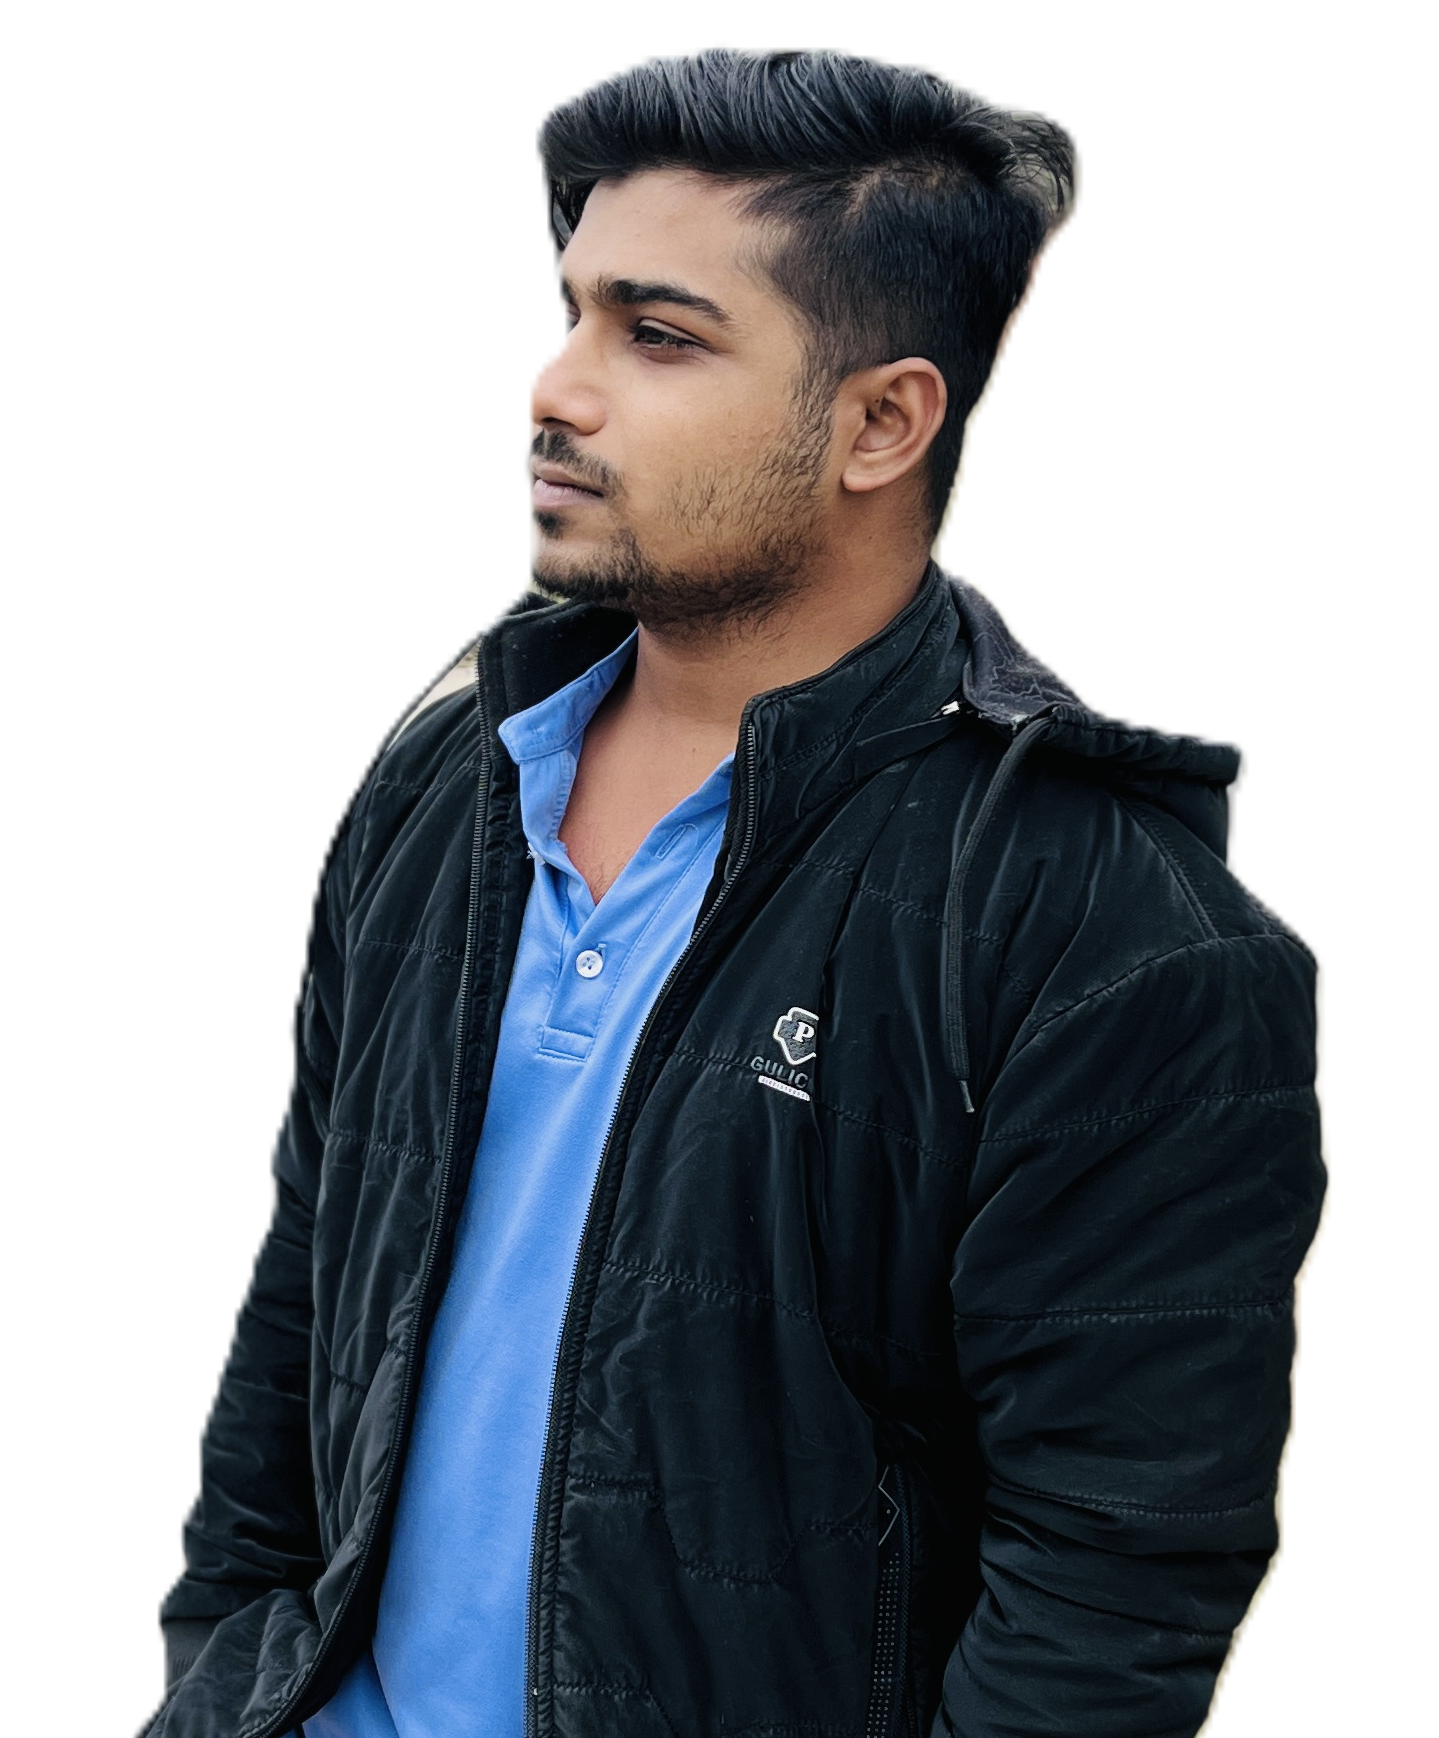
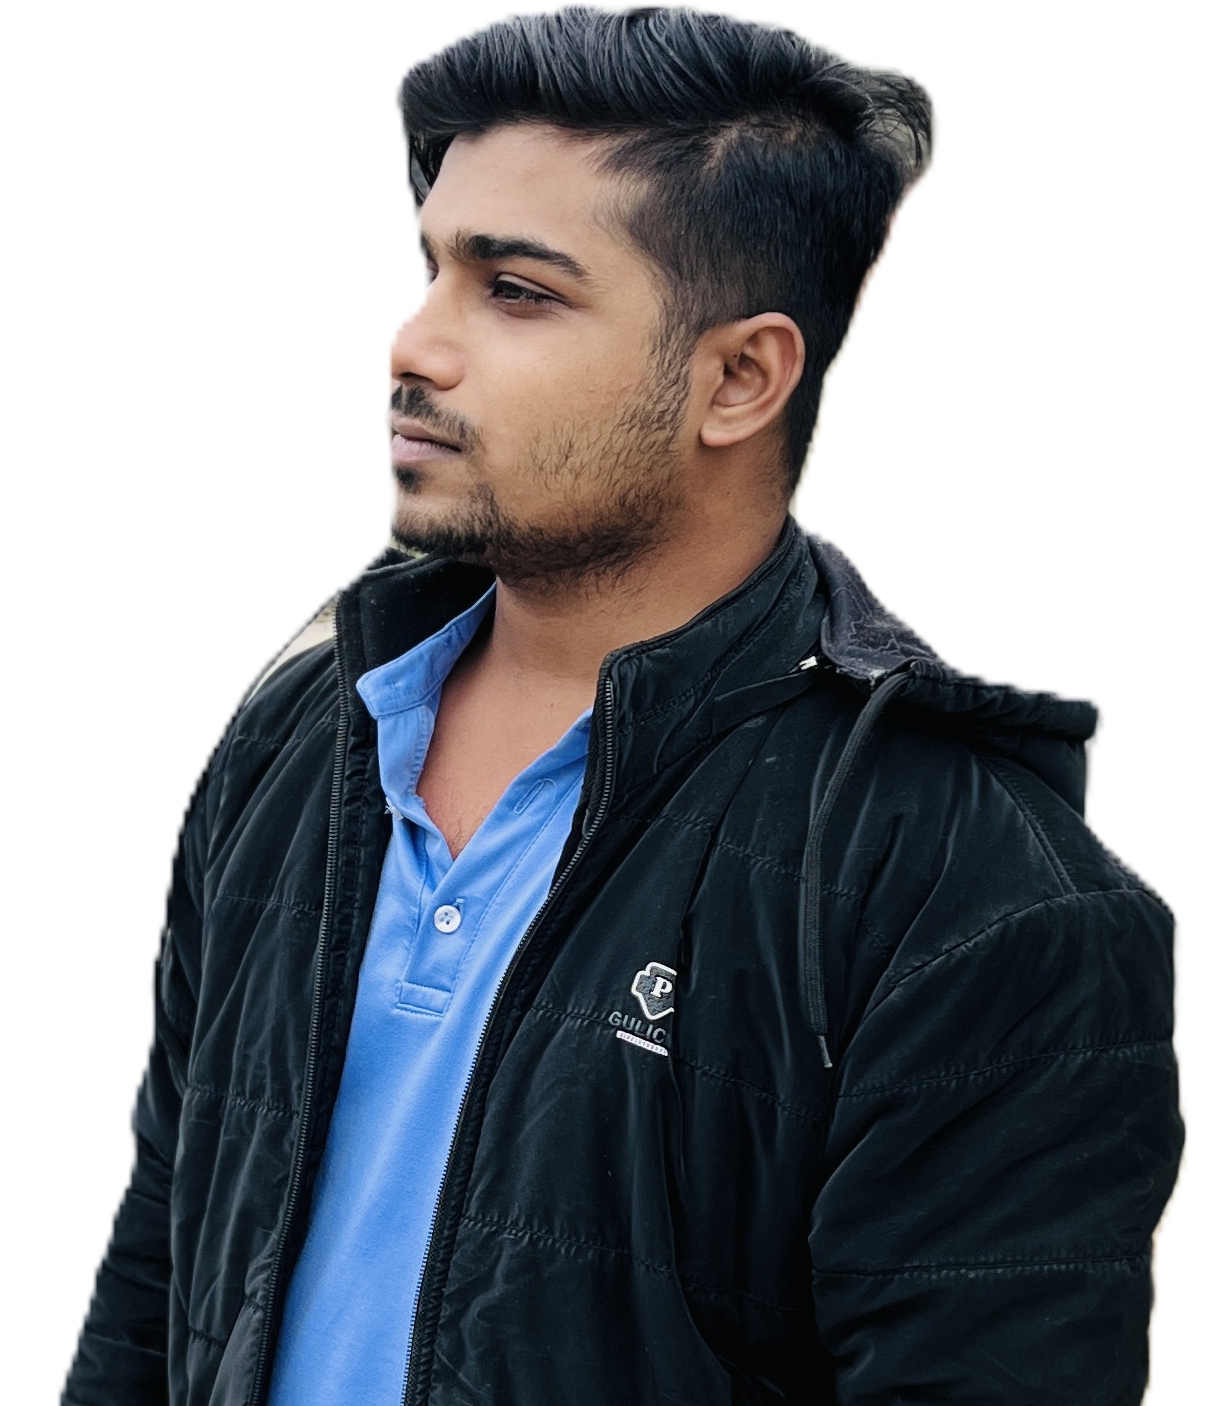
some style changed on header

diff --git a/css/style.css b/css/style.css
@@ -1,44 +1,53 @@
-@import url('https://fonts.googleapis.com/css2?family=Open+Sans:ital,wght@0,300..800;1,300..800&display=swap');
+@import url("https://fonts.googleapis.com/css2?family=Open+Sans:ital,wght@0,300..800;1,300..800&display=swap");
 
 * {
-    margin: 0;
-    padding: 0;
-    box-sizing: border-box;
+  margin: 0;
+  padding: 0;
+  box-sizing: border-box;
 }
 
 body {
-    font-family: "Open Sans", sans-serif;
-    font-optical-sizing: auto;
+  font-family: "Open Sans", sans-serif;
+  font-optical-sizing: auto;
 }
 
 /* Global Class Start */
 .btn {
-    background-color: #FD6E0A;
-    color: #fff;
-    padding: 18px 36px;
-    font-size: 20px;
-    font-weight: bold;
-    border: none;
-    border-radius: 5px;
+  background-color: #fd6e0a;
+  color: #fff;
+  padding: 18px 36px;
+  font-size: 20px;
+  font-weight: bold;
+  border: none;
+  border-radius: 5px;
+  cursor: pointer;
 }
-
+.btn_tr {
+  background-color: transparent;
+  color: #fd6e0a;
+  border: 1px solid #fd6e0a;
+  transition: 0.2s all;
+}
+.btn_tr:hover {
+  background-color: #fd6e0a;
+  color: #fff;
+}
 .header_container {
-    background: url('../images/header_bg.png'), #FFF8F3;
-    background-repeat: no-repeat;
-    background-position: bottom right;
-    max-width: 1600px;
-    margin: 0px auto;
-    padding-top: 38px;
-    display: flex;
-    justify-content: space-between;
-    gap: 71px;
+  background: url("../images/header_bg.png"), #fff8f3;
+  background-repeat: no-repeat;
+  background-position: bottom right;
+  max-width: 1600px;
+  margin: 0px auto;
+  padding-top: 38px;
+  display: flex;
+  justify-content: space-between;
 }
 
 /* Global Class End */
 .developer {
-    width: 136px;
-    display: flex;
-    justify-content: right;
+  width: 150px;
+  display: flex;
+  justify-content: right;
 }
 
 /* .main_header {
@@ -46,75 +55,80 @@ body {
 } */
 
 .main_header .logo h2 {
-    font-size: 45px;
-    font-weight: bolder;
+  font-size: 45px;
+  font-weight: bolder;
 }
 
 .logo h2 span {
-    color: #FD6E0A;
+  display: inline-block;
+  color: #fd6e0a;
 }
 
 .main_header .menu {
-    display: flex;
-    justify-content: space-between;
-    margin-bottom: 46px;
+  max-width: 1150px;
+  display: flex;
+  justify-content: space-between;
+  margin-bottom: 46px;
 }
 
 .menu_items ul {
-    display: flex;
-    list-style: none;
-    gap: 51px;
-    align-items: center;
+  display: flex;
+  list-style: none;
+  gap: 51px;
+  align-items: center;
 }
 
 .menu_items a {
-    text-decoration: none;
-    color: #474747;
-    font-size: 20px;
-    padding: 3px 5px;
-    transition: 0.3s;
+  text-decoration: none;
+  color: #474747;
+  font-size: 20px;
+  padding: 3px 5px;
+  transition: 0.3s;
 }
 
 .menu_items a:hover {
-    background-color: #FD6E0A;
-    color: #fff;
-    border-radius: 5px;
+  background-color: #fd6e0a;
+  color: #fff;
+  border-radius: 5px;
 }
 
 .banner_container {
-    max-width: 1392px;
-    display: flex;
-    justify-content: space-between;
-    align-items: center;
-    gap: 163px;
+  max-width: 1392px;
+  display: flex;
+  justify-content: space-between;
+  align-items: center;
+  gap: 170px;
 }
-
+.banner_container .banner_image {
+  margin-right: 35px;
+}
 .banner_container .banner_image img {
-    width: 584px;
-    margin-right: 55px;
-    vertical-align: middle;
+  width: 584px;
+  height: 676px;
+  vertical-align: middle;
 }
 
 .banner_content .hello {
-    font-size: 45px;
-    font-weight: 600;
-    color: #474747;
+  font-size: 45px;
+  font-weight: 600;
+  color: #474747;
 }
 
 .banner_content .my_name {
-    font-size: 85px;
-    font-weight: bold;
-    color: #181818;
+  font-size: 85px;
+  font-weight: bold;
+  color: #181818;
+  margin-bottom: 20px;
 }
 
 .banner_content .banner_text {
-    font-size: 18px;
-    line-height: 30px;
-    color: #757575;
-    margin-bottom: 30px;
+  font-size: 18px;
+  line-height: 30px;
+  color: #757575;
+  margin-bottom: 30px;
 }
 
 .banner_content .buttons_container {
-    display: flex;
-    gap: 30px;
+  display: flex;
+  gap: 30px;
 }

diff --git a/index.html b/index.html
@@ -1,50 +1,60 @@
 <!DOCTYPE html>
 <html lang="en">
-
-<head>
-    <meta charset="UTF-8">
-    <meta name="viewport" content="width=device-width, initial-scale=1.0">
+  <head>
+    <meta charset="UTF-8" />
+    <meta name="viewport" content="width=device-width, initial-scale=1.0" />
     <title>My Portfolio</title>
-    <link rel="stylesheet" href="css/style.css">
-</head>
+    <link
+      rel="stylesheet"
+      href="https://cdnjs.cloudflare.com/ajax/libs/font-awesome/7.0.1/css/all.min.css"
+      integrity="sha512-2SwdPD6INVrV/lHTZbO2nodKhrnDdJK9/kg2XD1r9uGqPo1cUbujc+IYdlYdEErWNu69gVcYgdxlmVmzTWnetw=="
+      crossorigin="anonymous"
+      referrerpolicy="no-referrer"
+    />
+    <link rel="stylesheet" href="css/style.css" />
+  </head>
 
-<body>
+  <body>
     <header class="header_container">
-        <section class="developer">
-            <img src="images/developer.png" alt="">
-        </section>
-        <section class="main_header">
-            <nav class="menu">
-                <div class="logo">
-                    <h2>Sagor<span>D</span>ev</h2>
-                </div>
-                <div class="menu_items">
-                    <ul>
-                        <li><a href="#">Portfolio</a></li>
-                        <li><a href="#">Blog</a></li>
-                        <button class="btn">Hire Me</button>
-                    </ul>
-                </div>
-            </nav>
-            <div class="banner_container">
-                <div class="banner_content">
-                    <h3 class="hello">Hi, I am</h3>
-                    <h1 class="my_name">Md Sagor Mia</h1>
-                    <p class="banner_text">
-                        Shot what able cold new see hold.Friendly as an betrayed formerly he. Morning because as to
-                        society behaved moments.
-                    </p>
-                    <div class="buttons_container">
-                        <button class="btn">Download CV</button>
-                        <button class="btn">Contact</button>
-                    </div>
-                </div>
-                <div class="banner_image">
-                    <img src="../portfolio/images/me.png" alt="">
-                </div>
-            </div>
-        </section>
-    </header>
-</body>
+      <section class="developer">
+        <img src="images/developer.png" alt="" />
+      </section>
 
+      <section class="main_header">
+        <nav class="menu">
+          <div class="logo">
+            <h2>Sagor<span>D</span>ev</h2>
+          </div>
+          <div class="menu_items">
+            <ul>
+              <li><a href="#">Portfolio</a></li>
+              <li><a href="#">Blog</a></li>
+              <button class="btn">Hire Me</button>
+            </ul>
+          </div>
+        </nav>
+        <div class="banner_container">
+          <div class="banner_content">
+            <h3 class="hello">Hi, I am</h3>
+            <h1 class="my_name">Md Sagor Mia</h1>
+            <p class="banner_text">
+              Shot what able cold new see hold.Friendly as an betrayed formerly
+              he. Morning because as to society behaved moments.
+            </p>
+            <div class="buttons_container">
+              <button class="btn">
+                <i class="fa-solid fa-download"></i> Download CV
+              </button>
+              <button class="btn btn_tr">
+                <i class="fa-solid fa-phone"></i> Contact
+              </button>
+            </div>
+          </div>
+          <div class="banner_image">
+            <img src="../portfolio/images/me.png" alt="" />
+          </div>
+        </div>
+      </section>
+    </header>
+  </body>
 </html>
